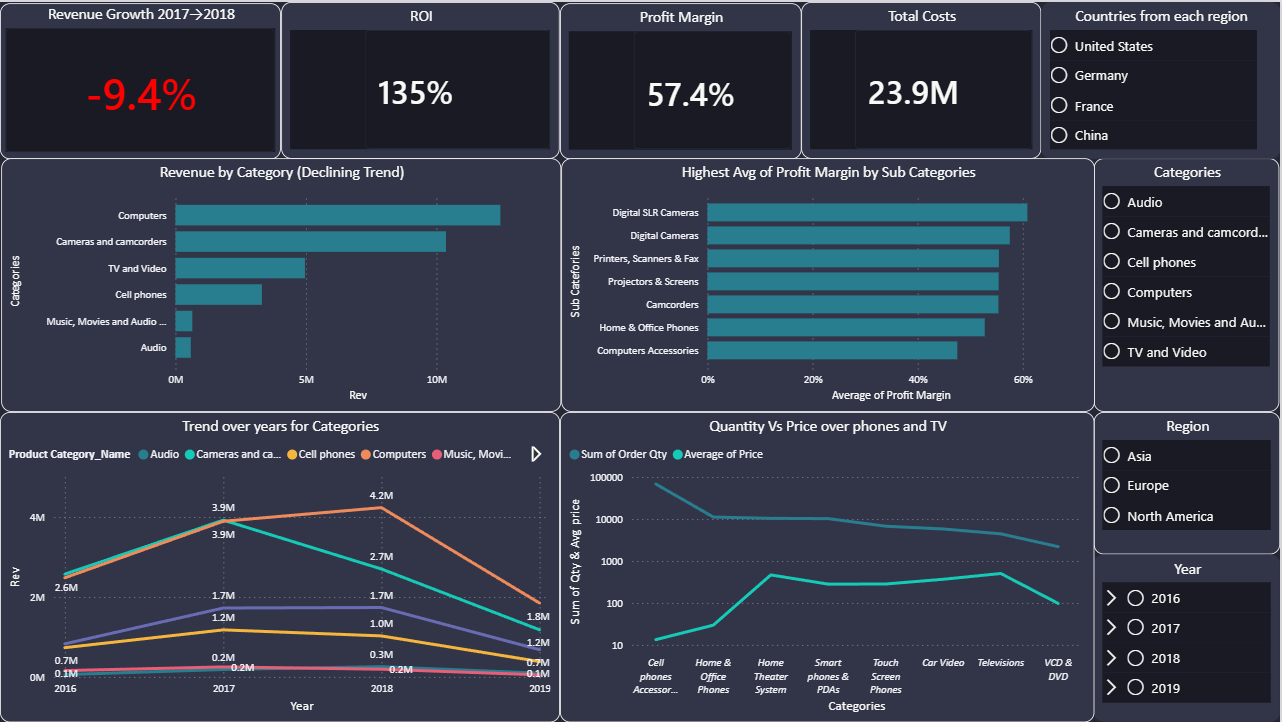
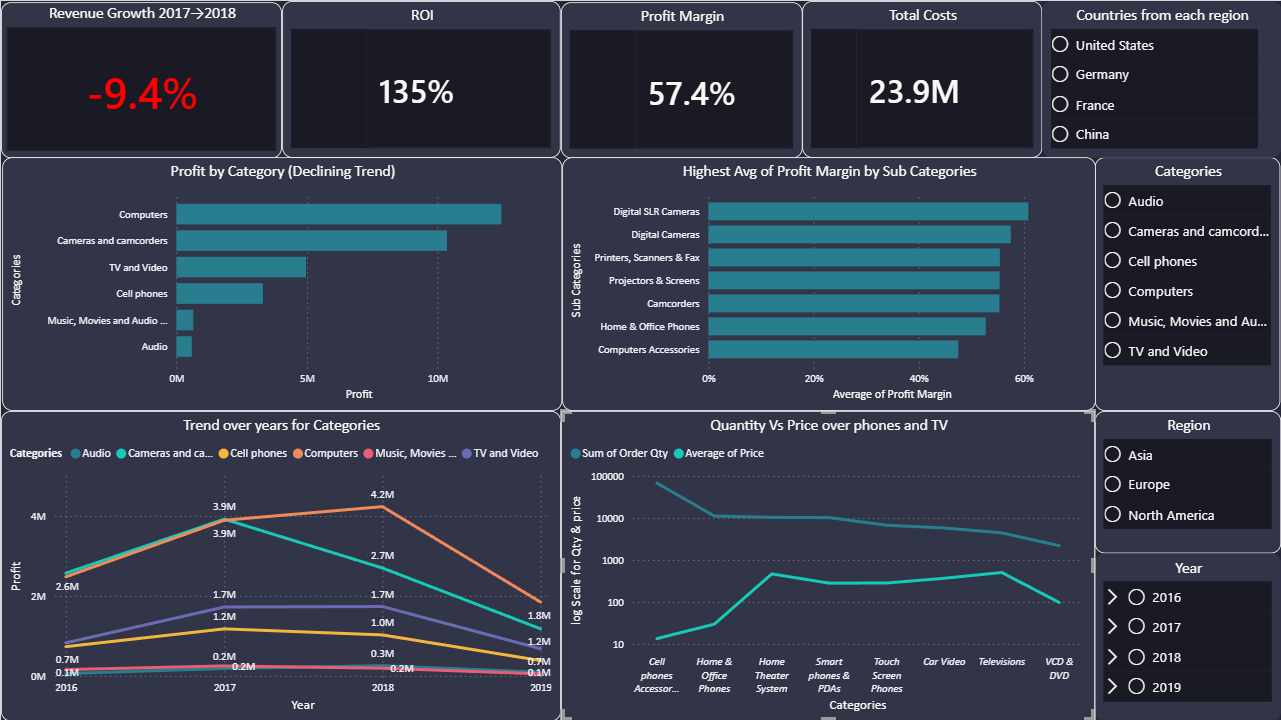
small fix on dashboard

diff --git a/Project 1/README.md b/Project 1/README.md
@@ -1,7 +1,7 @@
 # Project Title: Sales Performance Analysis Contoso Dataset
 
 # Dataset Overview:
-dataset from +15K rows contain different columns the data time between 6-2016 to 6-2019
+dataset from +15K rows of retail sales transactions with date time between 6-2016 to 6-2019
 
 # Audience & Dashboards:
 ## Dashboard 1 CEO: 
@@ -12,8 +12,8 @@ dataset from +15K rows contain different columns the data time between 6-2016 to
 ![CEO Dashboard](CEO_Dashboard.png)
 
 ## Dashboard 2 Sales Manager: 
-    1- Our sales decreased in 2018
-    2- Cameras category have big decreased in 2018  
+    1- Overall sales declined in 2018 across all channels
+    2- Camera category revenue declined significantly in 2018 
     3- stores still our lead channel
     4- Cell phones buy highr in Asia through time as it achieved Growth rate around 20%
 
@@ -24,15 +24,20 @@ dataset from +15K rows contain different columns the data time between 6-2016 to
     2- Our Revenue Growth 2017 to 2018 is -9.4%
     3- Computers lead profit across all regions.
 
+I used log scale for qty & price chart to prove the relation and suggest to merge between some products to increase our AOV
 ![Product Dashboard](Product_Dashboard.png)
+
+# Tools
+    1- Microsoft Excel (Pivot Tables, Dashboard Design, SUMIF, VLOOKUP)
+    2- Microsoft Power BI (DAX, Interactive Dashboards, Slicers)
 
 # Recommendations:
     1- merge complementary products such as Computers with Accessories to increase AOV 
-    2- Asia our promising marketing specially China
+    2- Asia is a promising market specially China
     3- We lose our market in North Amerca so we have to do some marketing and sales to high our Revenue
 
 # Limitations & Future Improvements:
     1- Dataset contains 15K rows which limits statistical significance
     2- limited dates to track patterns
-    3- no date about castomers so I can't analyze on what product sold why
+    3- no customer data available so I can't analyze on what product sold why
     4- no data about which Items ordered together to try increse AOV based on data